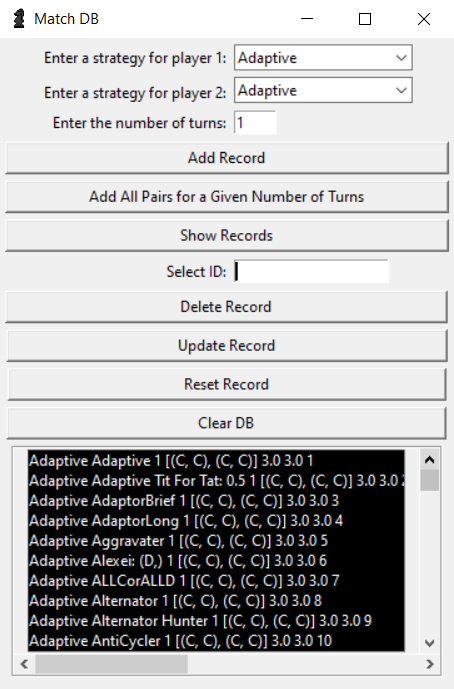
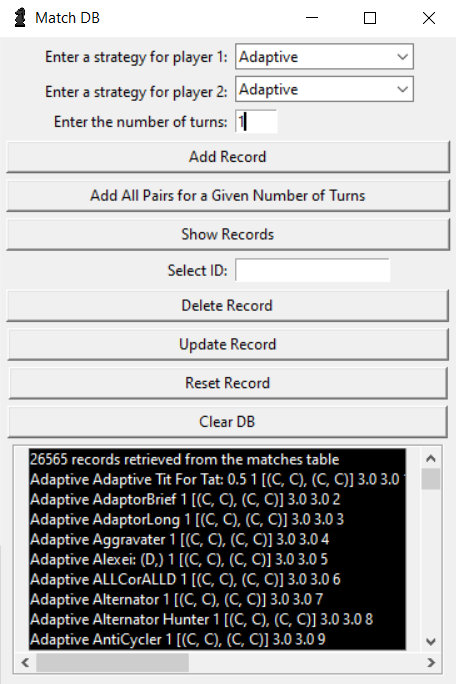
added number of records to Show Records button output

diff --git a/interactive-gt.py b/interactive-gt.py
@@ -1092,9 +1092,10 @@ def showRecords():
     
     c.execute("SELECT *, oid FROM matches")
     records = c.fetchall()
-    
-    recordsString = ""
+    numRecords = len(records)
+
     recordsList = []
+    recordsList.append(f"{numRecords} records retrieved from the matches table\n")
     for i, record in enumerate(records):
         recordsList.append(
             str(record[0]) + " " + str(record[1]) + " " + str(record[2]) + " " + str(record[3]) + " " + str(record[4]) + " " + str(record[5]) + " " + str(record[6])
